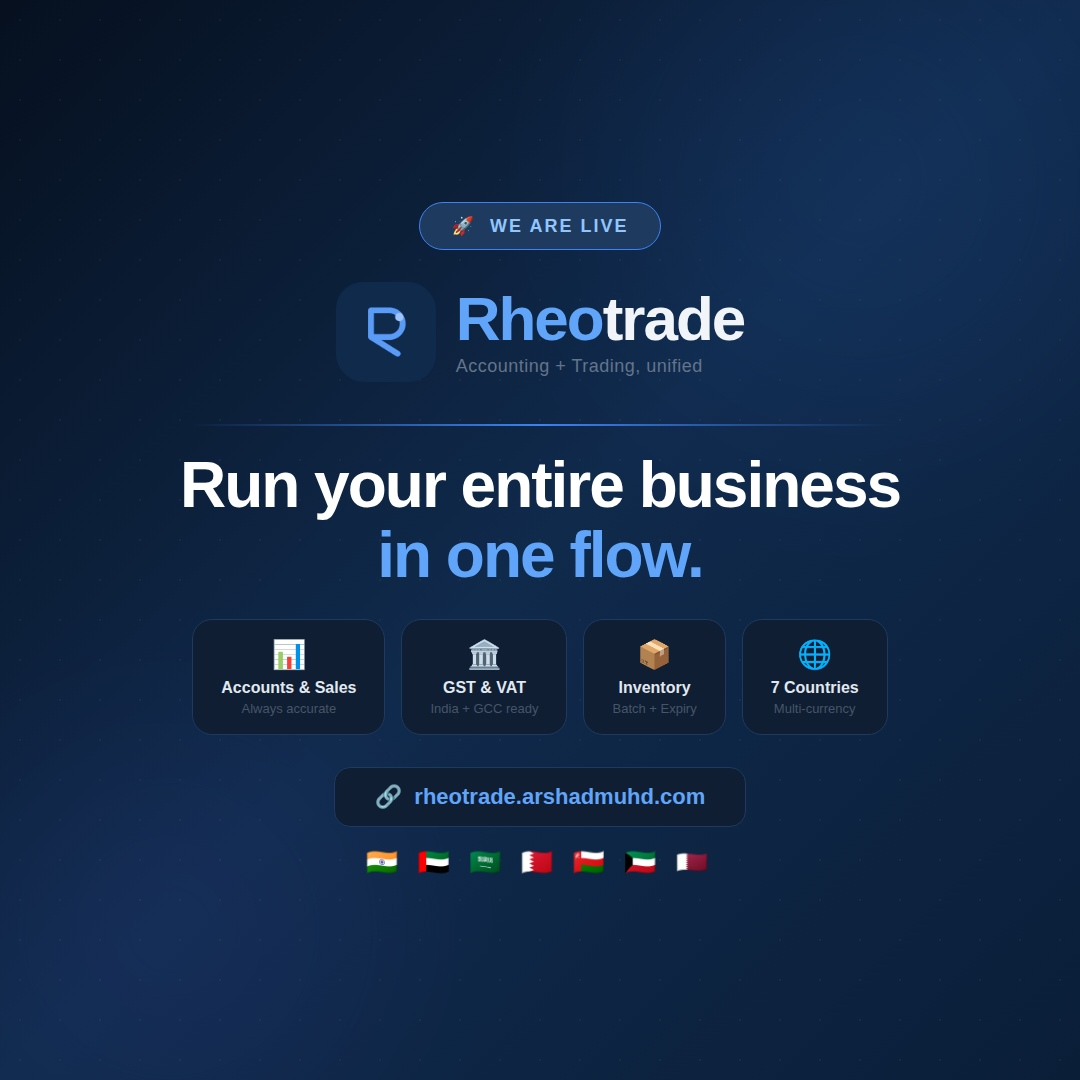
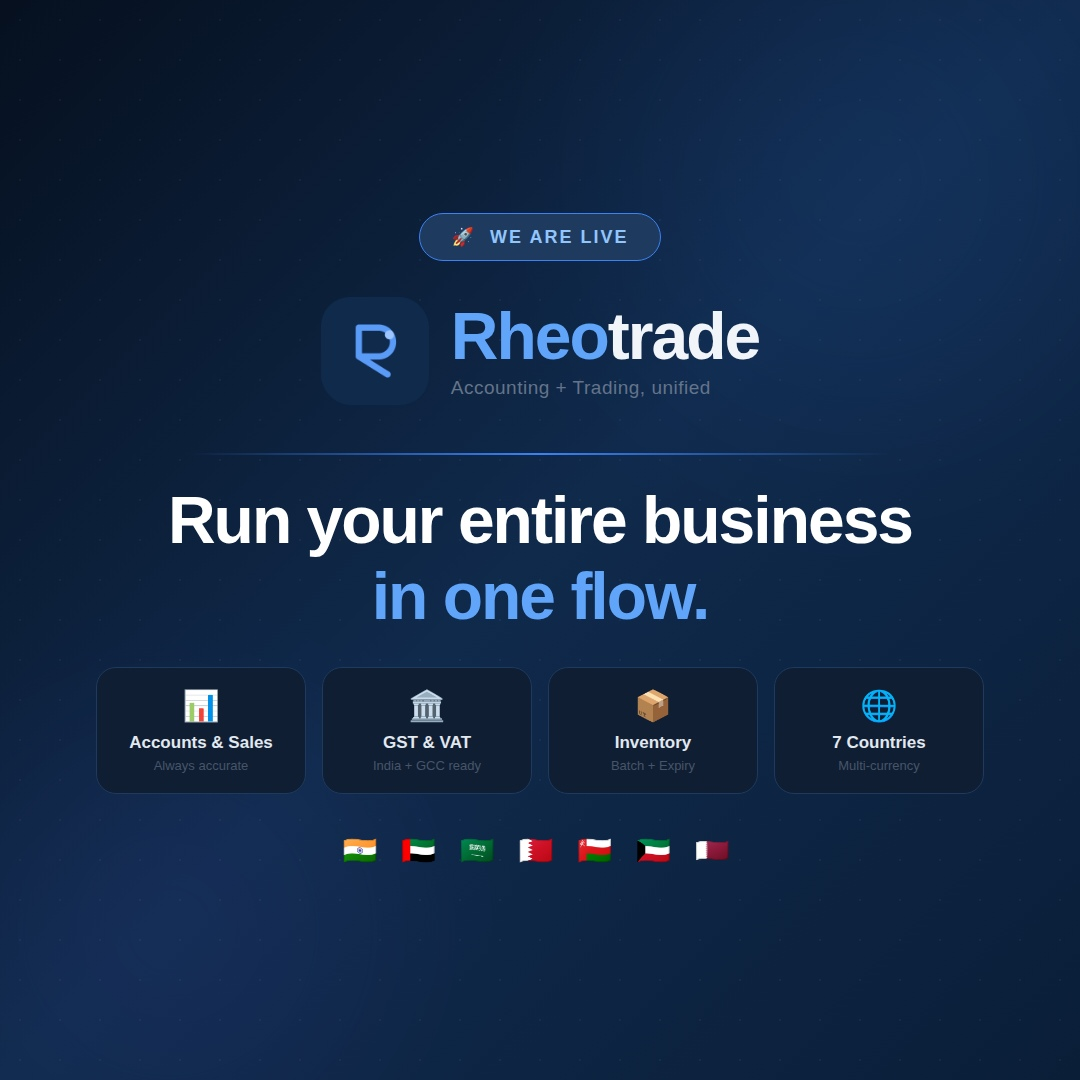
Remove website URL from launch posters
Removed rheotrade.arshadmuhd.com link from both Instagram and WhatsApp
status posters. Regenerated JPEGs from updated HTML templates.

https://claude.ai/code/session_01DvGDxnkc2HWnV8F235utSW

diff --git a/social-assets/whatsapp-status.html b/social-assets/whatsapp-status.html
@@ -4,46 +4,43 @@
 <style>
 *{margin:0;padding:0;box-sizing:border-box;}
 body{width:1080px;height:1920px;overflow:hidden;font-family:'Plus Jakarta Sans',sans-serif;}
-.wrap{width:1080px;height:1920px;position:relative;background:linear-gradient(160deg,#06101f 0%,#102a4c 45%,#0a1e38 100%);display:flex;flex-direction:column;align-items:center;justify-content:center;gap:0;padding:60px 60px;}
+.wrap{width:1080px;height:1920px;position:relative;background:linear-gradient(160deg,#06101f 0%,#102a4c 45%,#0a1e38 100%);display:flex;flex-direction:column;align-items:center;justify-content:center;gap:0;padding:60px;}
 .blob1{position:absolute;width:700px;height:700px;border-radius:50%;background:radial-gradient(circle,#3b82f6,transparent);top:-150px;right:-150px;opacity:.1;filter:blur(100px);}
 .blob2{position:absolute;width:600px;height:600px;border-radius:50%;background:radial-gradient(circle,#6366f1,transparent);bottom:-120px;left:-120px;opacity:.09;filter:blur(100px);}
 .dots{position:absolute;inset:0;background-image:radial-gradient(circle,rgba(255,255,255,.04) 1.5px,transparent 1.5px);background-size:48px 48px;}
 
-.live-badge{background:#1e3a5f;border:2px solid #3b82f6;border-radius:100px;padding:14px 40px;color:#93c5fd;font-size:22px;font-weight:700;letter-spacing:3px;margin-bottom:48px;z-index:1;display:flex;align-items:center;gap:10px;}
-.live-dot{width:12px;height:12px;border-radius:50%;background:#22c55e;display:inline-block;}
+.live-badge{background:#1e3a5f;border:2px solid #3b82f6;border-radius:100px;padding:14px 40px;color:#93c5fd;font-size:22px;font-weight:700;letter-spacing:3px;margin-bottom:52px;z-index:1;display:flex;align-items:center;gap:12px;}
+.live-dot{width:12px;height:12px;border-radius:50%;background:#22c55e;display:inline-block;flex-shrink:0;}
 
-.logo-icon{width:150px;height:150px;border-radius:34px;margin-bottom:28px;z-index:1;}
-.logo-word{font-size:86px;font-weight:800;letter-spacing:-3px;z-index:1;margin-bottom:12px;}
-.logo-sub{font-size:26px;color:#64748b;font-weight:500;letter-spacing:.5px;z-index:1;margin-bottom:40px;}
+.logo-icon{width:160px;height:160px;border-radius:36px;margin-bottom:30px;z-index:1;}
+.logo-word{font-size:90px;font-weight:800;letter-spacing:-3px;z-index:1;margin-bottom:14px;}
+.logo-sub{font-size:27px;color:#64748b;font-weight:500;letter-spacing:.5px;z-index:1;margin-bottom:48px;}
 
-.divider{width:700px;height:2px;background:linear-gradient(90deg,transparent,#3b82f6,transparent);margin-bottom:40px;z-index:1;}
+.divider{width:720px;height:2px;background:linear-gradient(90deg,transparent,#3b82f6,transparent);margin-bottom:48px;z-index:1;}
 
-.headline{text-align:center;z-index:1;margin-bottom:16px;}
-.headline h1{font-size:88px;font-weight:800;color:#fff;letter-spacing:-3px;line-height:1.1;}
+.headline{text-align:center;z-index:1;margin-bottom:18px;}
+.headline h1{font-size:90px;font-weight:800;color:#fff;letter-spacing:-3px;line-height:1.1;}
 .headline h1 .blue{color:#60a5fa;}
-.tagline{font-size:28px;color:#64748b;text-align:center;z-index:1;margin-bottom:48px;line-height:1.6;}
+.tagline{font-size:29px;color:#64748b;text-align:center;z-index:1;margin-bottom:56px;line-height:1.65;}
 
-.cards{display:grid;grid-template-columns:1fr 1fr;gap:20px;width:100%;margin-bottom:40px;z-index:1;}
-.card{background:linear-gradient(135deg,#1a3254,#111e35);border:1.5px solid #1e3a5f;border-radius:24px;padding:28px;}
-.card-icon{font-size:40px;margin-bottom:14px;display:block;}
-.card-title{font-size:24px;font-weight:700;color:#e2e8f0;display:block;margin-bottom:6px;}
-.card-sub{font-size:18px;color:#475569;display:block;}
+.cards{display:grid;grid-template-columns:1fr 1fr;gap:20px;width:100%;margin-bottom:48px;z-index:1;}
+.card{background:linear-gradient(135deg,#1a3254,#111e35);border:1.5px solid #1e3a5f;border-radius:24px;padding:30px;}
+.card-icon{font-size:42px;margin-bottom:14px;display:block;}
+.card-title{font-size:25px;font-weight:700;color:#e2e8f0;display:block;margin-bottom:8px;}
+.card-sub{font-size:19px;color:#475569;display:block;}
 
-.countries{background:#0f1e33;border:1.5px solid #1e3a5f;border-radius:20px;padding:22px 40px;width:100%;text-align:center;margin-bottom:40px;z-index:1;}
-.countries p{font-size:18px;font-weight:600;color:#475569;letter-spacing:2px;margin-bottom:12px;}
-.countries .flags{font-size:32px;letter-spacing:8px;}
+.countries{background:#0f1e33;border:1.5px solid #1e3a5f;border-radius:20px;padding:26px 40px;width:100%;text-align:center;margin-bottom:52px;z-index:1;}
+.countries p{font-size:18px;font-weight:700;color:#475569;letter-spacing:3px;margin-bottom:14px;text-transform:uppercase;}
+.countries .flags{font-size:34px;letter-spacing:8px;}
 
-.url-box{background:#0f1e33;border:1.5px solid #1e3a5f;border-radius:20px;padding:20px 40px;margin-bottom:24px;z-index:1;}
-.url-box p{font-size:30px;font-weight:600;color:#60a5fa;text-align:center;}
-
-.cta-btn{background:linear-gradient(90deg,#2563eb,#4f46e5);border-radius:100px;padding:22px 60px;margin-bottom:48px;z-index:1;}
-.cta-btn p{font-size:28px;font-weight:700;color:#fff;text-align:center;letter-spacing:.5px;}
+.cta-btn{background:linear-gradient(90deg,#2563eb,#4f46e5);border-radius:100px;padding:26px 80px;margin-bottom:56px;z-index:1;}
+.cta-btn p{font-size:30px;font-weight:700;color:#fff;text-align:center;letter-spacing:.5px;}
 
 .footer{text-align:center;z-index:1;}
-.footer .fw{font-size:30px;font-weight:800;letter-spacing:-1px;margin-bottom:8px;}
-.footer .fs{font-size:18px;color:#334155;}
-.stamp{background:#1e3a5f;border:1.5px solid #3b82f6;border-radius:100px;padding:10px 28px;margin-top:16px;display:inline-block;}
-.stamp p{font-size:18px;font-weight:600;color:#93c5fd;}
+.footer .fw{font-size:32px;font-weight:800;letter-spacing:-1px;margin-bottom:10px;}
+.footer .fs{font-size:19px;color:#334155;}
+.stamp{background:#1e3a5f;border:1.5px solid #3b82f6;border-radius:100px;padding:12px 32px;margin-top:18px;display:inline-block;}
+.stamp p{font-size:19px;font-weight:600;color:#93c5fd;}
 </style></head>
 <body><div class='wrap'>
   <div class='blob1'></div><div class='blob2'></div><div class='dots'></div>
@@ -69,11 +66,9 @@ body{width:1080px;height:1920px;overflow:hidden;font-family:'Plus Jakarta Sans',
   </div>
 
   <div class='countries'>
-    <p>AVAILABLE IN 7 COUNTRIES</p>
+    <p>Available in 7 countries</p>
     <div class='flags'>🇮🇳 🇦🇪 🇸🇦 🇧🇭 🇴🇲 🇰🇼 🇶🇦</div>
   </div>
-
-  <div class='url-box'><p>🔗 &nbsp;rheotrade.arshadmuhd.com</p></div>
 
   <div class='cta-btn'><p>Start Free Today &nbsp;→</p></div>
 

diff --git a/social-assets/instagram-post.html b/social-assets/instagram-post.html
@@ -9,30 +9,27 @@ body{width:1080px;height:1080px;overflow:hidden;background:#0a1628;font-family:'
 .blob2{position:absolute;width:500px;height:500px;border-radius:50%;background:radial-gradient(circle,#6366f1,transparent);bottom:-100px;left:-80px;opacity:.09;filter:blur(80px);}
 .dots{position:absolute;inset:0;background-image:radial-gradient(circle,rgba(255,255,255,.04) 1.5px,transparent 1.5px);background-size:40px 40px;}
 
-.badge{background:#1e3a5f;border:1.5px solid #3b82f6;border-radius:100px;padding:12px 32px;color:#93c5fd;font-size:18px;font-weight:700;letter-spacing:2px;margin-bottom:32px;z-index:1;}
+.badge{background:#1e3a5f;border:1.5px solid #3b82f6;border-radius:100px;padding:12px 32px;color:#93c5fd;font-size:18px;font-weight:700;letter-spacing:2px;margin-bottom:36px;z-index:1;}
 
-.logo-row{display:flex;align-items:center;gap:20px;margin-bottom:18px;z-index:1;}
-.logo-icon{width:100px;height:100px;border-radius:22px;}
+.logo-row{display:flex;align-items:center;gap:22px;margin-bottom:20px;z-index:1;}
+.logo-icon{width:108px;height:108px;border-radius:24px;}
 .logo-text{display:flex;flex-direction:column;}
-.logo-word{font-size:62px;font-weight:800;letter-spacing:-2px;line-height:1;}
-.logo-sub{font-size:18px;color:#64748b;font-weight:500;margin-top:6px;letter-spacing:.5px;}
+.logo-word{font-size:66px;font-weight:800;letter-spacing:-2px;line-height:1;}
+.logo-sub{font-size:19px;color:#64748b;font-weight:500;margin-top:8px;letter-spacing:.5px;}
 
-.divider{width:700px;height:1.5px;background:linear-gradient(90deg,transparent,#3b82f6,transparent);margin:24px 0;z-index:1;}
+.divider{width:700px;height:1.5px;background:linear-gradient(90deg,transparent,#3b82f6,transparent);margin:28px 0;z-index:1;}
 
-.headline{text-align:center;z-index:1;margin-bottom:28px;}
-.headline h1{font-size:64px;font-weight:800;color:#fff;letter-spacing:-2px;line-height:1.1;}
+.headline{text-align:center;z-index:1;margin-bottom:32px;}
+.headline h1{font-size:66px;font-weight:800;color:#fff;letter-spacing:-2px;line-height:1.15;}
 .headline h1 span{color:#60a5fa;}
 
-.pills{display:flex;gap:16px;z-index:1;margin-bottom:32px;}
-.pill{background:#0f1e33;border:1.5px solid #1e3a5f;border-radius:20px;padding:18px 28px;text-align:center;}
-.pill-icon{font-size:28px;display:block;margin-bottom:8px;}
-.pill-title{font-size:16px;font-weight:700;color:#e2e8f0;display:block;}
-.pill-sub{font-size:13px;color:#475569;display:block;margin-top:4px;}
+.pills{display:flex;gap:16px;z-index:1;margin-bottom:40px;}
+.pill{background:#0f1e33;border:1.5px solid #1e3a5f;border-radius:20px;padding:20px 26px;text-align:center;min-width:210px;}
+.pill-icon{font-size:30px;display:block;margin-bottom:10px;}
+.pill-title{font-size:17px;font-weight:700;color:#e2e8f0;display:block;}
+.pill-sub{font-size:13px;color:#475569;display:block;margin-top:5px;}
 
-.url-row{background:#0f1e33;border:1.5px solid #1e3a5f;border-radius:16px;padding:16px 40px;z-index:1;margin-bottom:20px;}
-.url-row p{font-size:22px;font-weight:600;color:#60a5fa;text-align:center;}
-
-.flags{font-size:26px;letter-spacing:6px;z-index:1;color:#fff;}
+.flags{font-size:28px;letter-spacing:8px;z-index:1;color:#fff;}
 </style></head>
 <body><div class='wrap'>
   <div class='blob1'></div>
@@ -62,6 +59,5 @@ body{width:1080px;height:1080px;overflow:hidden;background:#0a1628;font-family:'
     <div class='pill'><span class='pill-icon'>🌐</span><span class='pill-title'>7 Countries</span><span class='pill-sub'>Multi-currency</span></div>
   </div>
 
-  <div class='url-row'><p>🔗 &nbsp;rheotrade.arshadmuhd.com</p></div>
   <div class='flags'>🇮🇳 🇦🇪 🇸🇦 🇧🇭 🇴🇲 🇰🇼 🇶🇦</div>
 </div></body></html>
